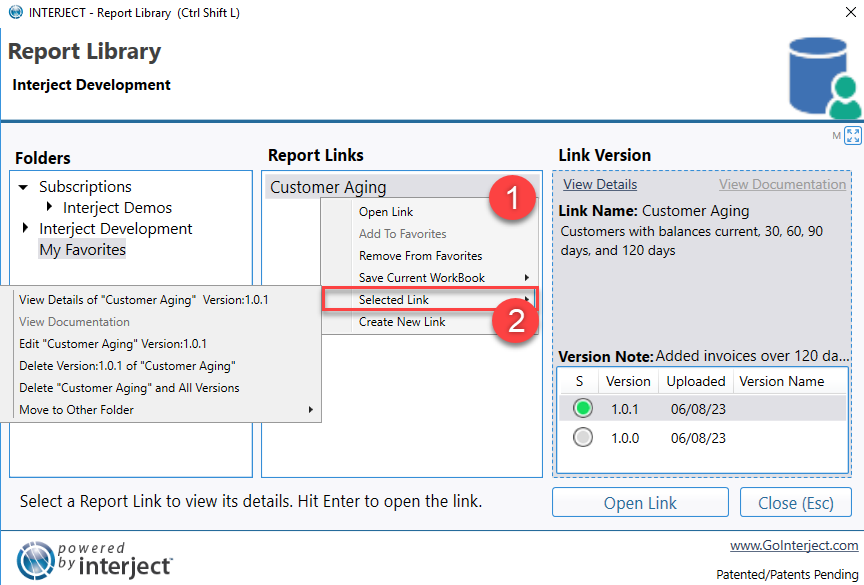
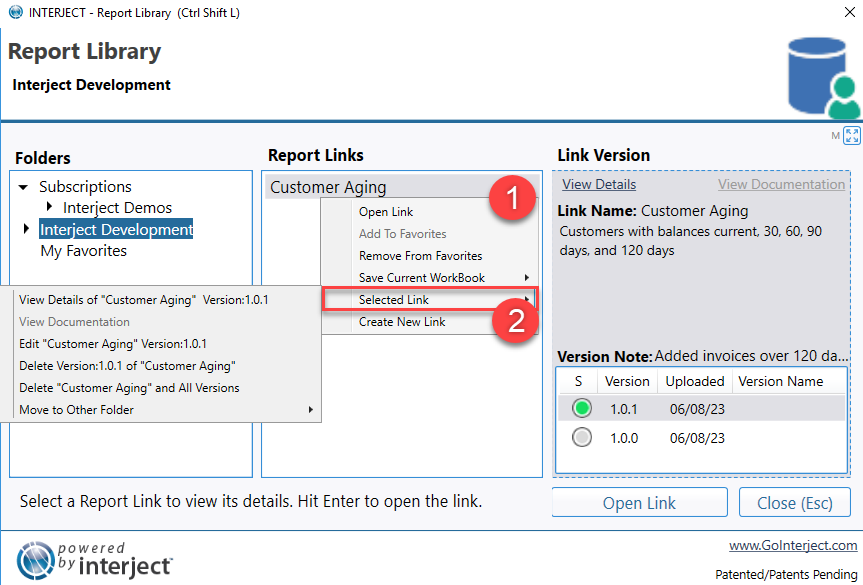
changed screenshot and note about editing MyFavorite links

diff --git a/wAbout/ReportLibraryLinks.md b/wAbout/ReportLibraryLinks.md
@@ -117,6 +117,13 @@ Notice the new report is added and automatically incremented the version number:
 
 ### Updating a Report Link
 
+You can update a report link details via the right-click menu in the Report Library.
+
+<blockquote class=highlight_note>
+<b>Note:</b> Report links in the "MyFavorites" folder are not editable.
+</blockquote>
+<br>
+
 **Step 1:** Begin by opening the Report Library and right click on the report you wish to edit. Hover the cursor over **Selected Link** and you can view the sub menu:
 
 ![](/images/ReportLibraryLinks/SelectedLinkMenu.png)
